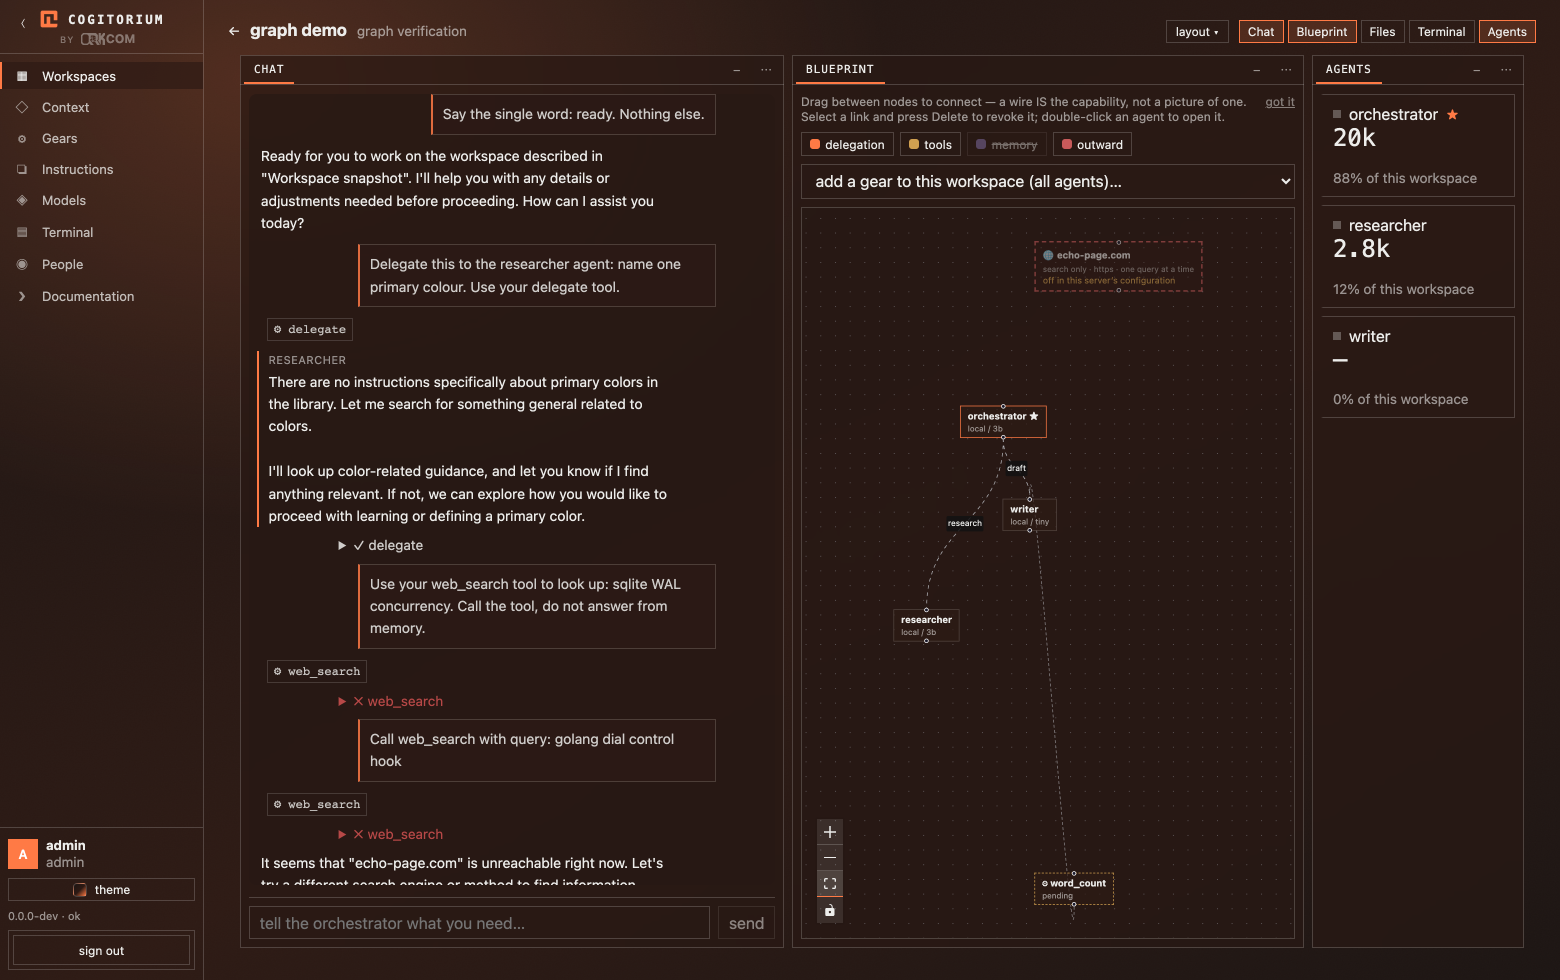
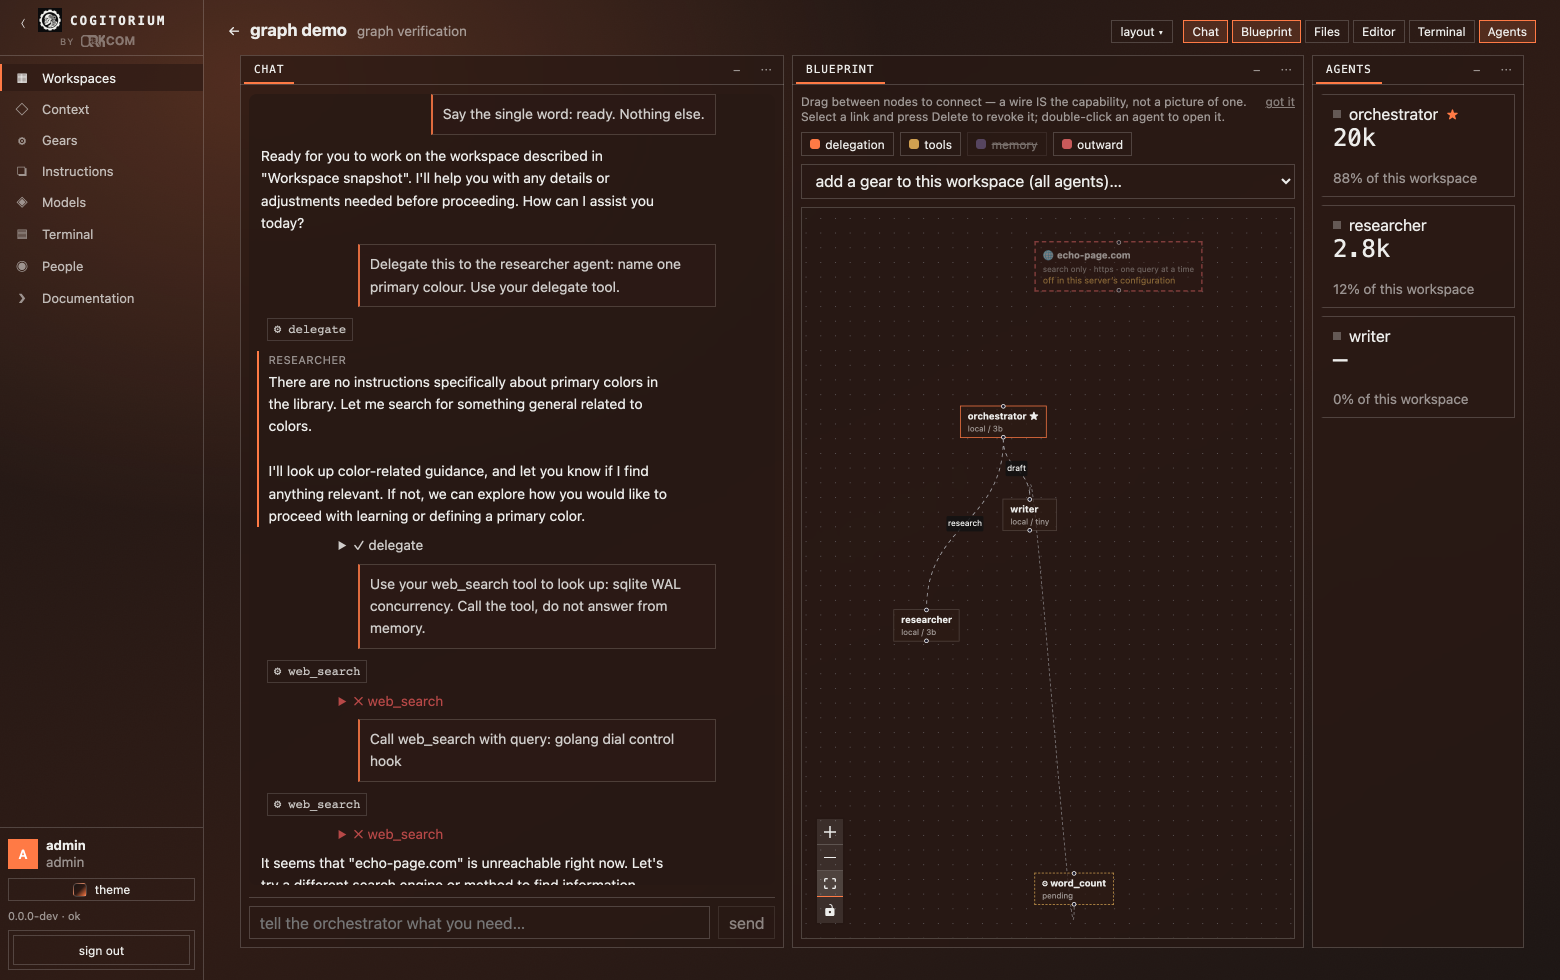
Re-shoot the documentation, and stop advertising a desktop app that does not exist
Twelve screenshots, all re-taken against the current build. Everything visible
in them had moved since the last set: the file editor is its own panel, the
mark in the menu is the ORKCOM medallion rather than a placeholder glyph, the
gear catalog states what this server can actually isolate, and the install
sections are new.

One shot is new: unsaved edits shown as a diff. The feature was documented in
prose last commit and had nothing to look at.

And a correction to my own writing from an hour ago. The README, the docs table
and the release notes template all announced desktop applications attached to
each release. There are none — the desktop shell is not built. That is exactly
the thing this documentation is not allowed to do: describe what is planned as
though it shipped. Three claims removed.

Changed region(s): [[0.0, 0.0, 0.1231, 0.3061], [0.7077, 0.0, 0.8923, 0.0612]]

diff --git a/docs/index.md b/docs/index.md
@@ -32,7 +32,6 @@ command; an archive brings nothing and says as much.
 | Docker | `docker compose up --build` | yes, in the image |
 | deb / rpm | from the [releases page](https://github.com/orkcom-tech/cogitorium/releases) | recommends it |
 | winget | `winget install OrkcomTech.Cogitorium` | declared, not resolved |
-| Desktop app | installers attached to each release | yes, bundled |
 | Archive | download and unpack | no |
 | Source | `make build` | no |
 
@@ -272,6 +271,8 @@ the editor; the conversation and the shell stay, because watching a turn while
 editing what it produced is why both are on screen. Nothing is destroyed —
 every panel put away is one chip away in the top bar, and the editor floats out
 into its own window like any other panel.
+
+![Unsaved edits, shown as a diff against what is on disk](assets/12-diff.png)
 
 **Diffs.** With unsaved edits open, **changes** shows them against what is on
 disk — two line-number columns, a sign column, and long runs of unchanged lines

diff --git a/README.md b/README.md
@@ -96,9 +96,6 @@ systemd unit. They recommend `contextd` rather than requiring it, because it
 ships from GitHub rather than a distribution repository; the postinstall says
 what to run.
 
-**Desktop applications** for macOS, Windows and Linux are attached to each
-release.
-
 **From source** — Go ≥1.25 and Node ≥22; Docker if you want gears and the
 terminal sandboxed:
 
@@ -140,6 +137,8 @@ diff against what is on disk. A gear past its first version diffs against the
 previous one — an approval covers exact content, so what you want before
 approving is what changed. All of it is written in the product rather than
 installed: no highlighter library, no diff library, no editor component.
+
+![Unsaved edits, shown as a diff against what is on disk](docs/assets/12-diff.png)
 
 Nothing has to be docked at all. Any panel can be pulled off the grid into a
 window you move, resize, roll up or close.
